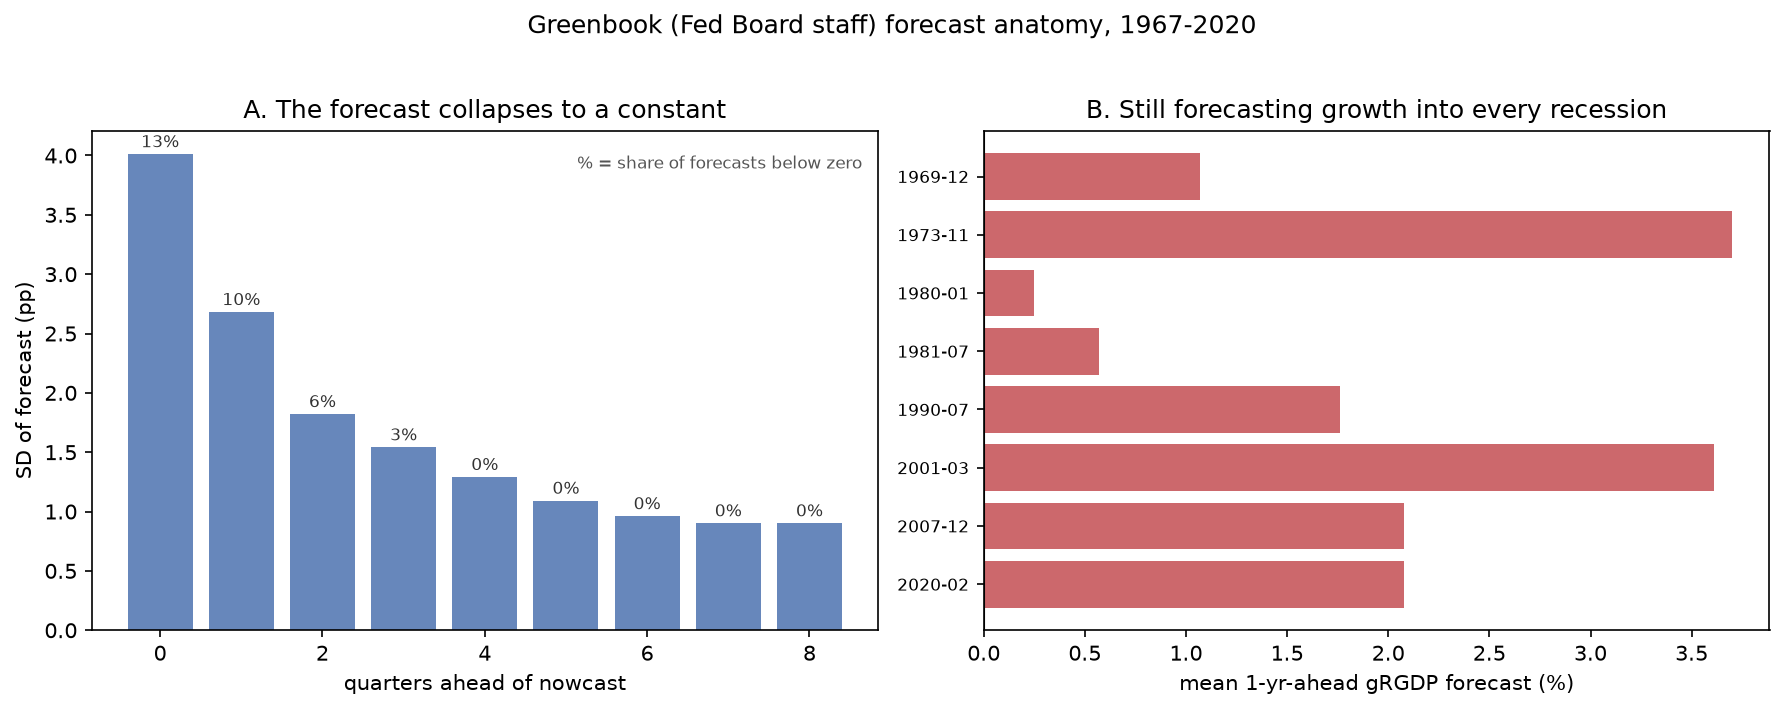
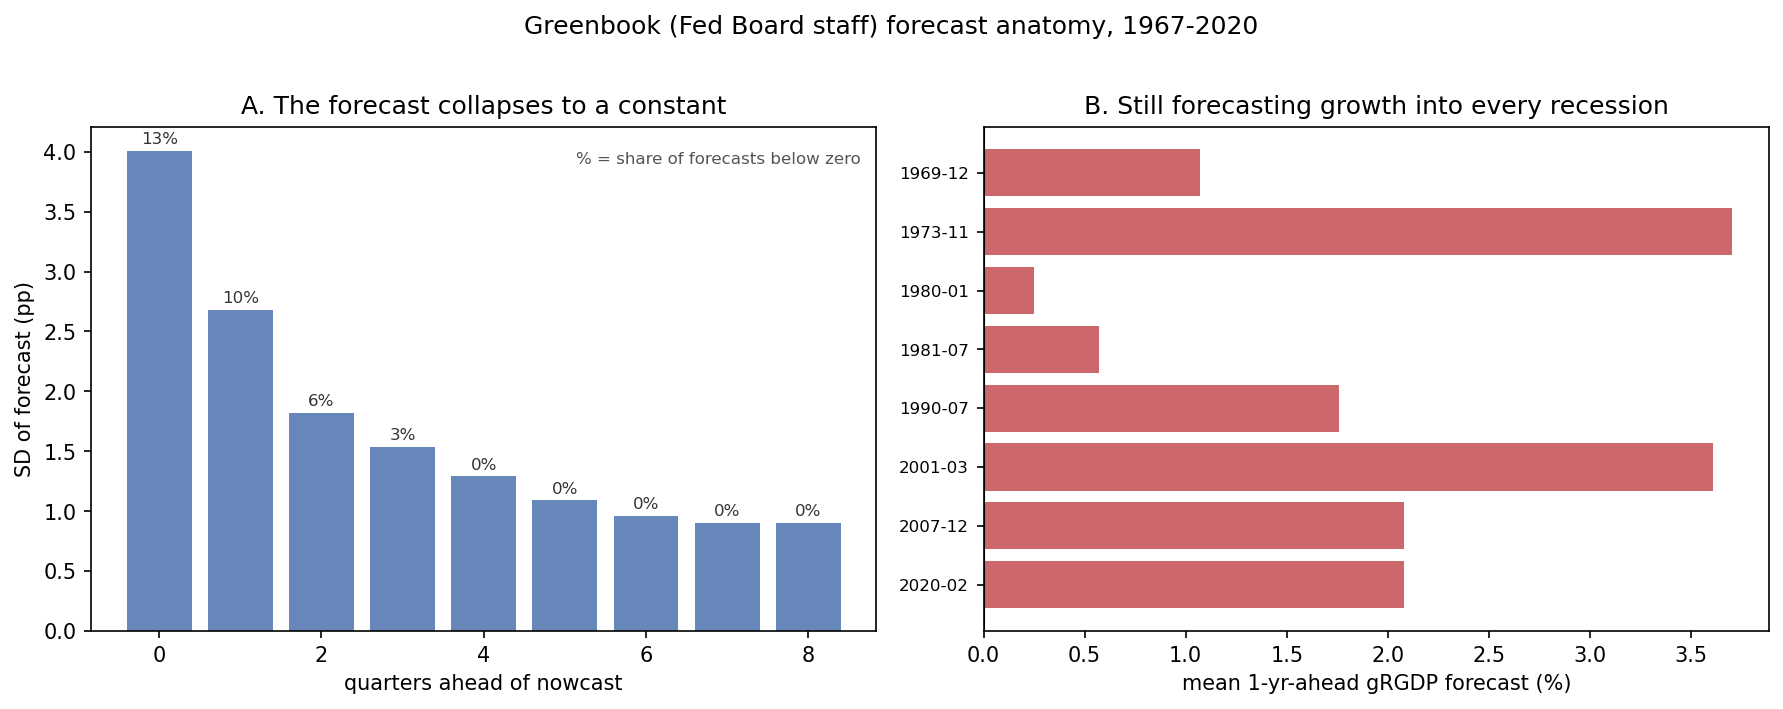
abstract+economy

diff --git a/JeremysShit/greenbook_analysis.py b/JeremysShit/greenbook_analysis.py
@@ -30,15 +30,15 @@ Three analyses:
 Usage (from JeremysShit/):
     python greenbook_analysis.py          # tables + figures/fig_greenbook_anatomy.png
 
-Reads cache/greenbook_row_format.xlsx (see greenbook_benchmark.py's docstring
-for the manual download) and greenbook_scored.csv (run greenbook_benchmark.py
-first).
+Reads the All-Column-Format folder (cache/Gbweb_All_Column_Format/, see
+greenbook_benchmark.py's docstring) and greenbook_scored.csv (run
+greenbook_benchmark.py first).
 """
 
 import numpy as np
 import pandas as pd
 
-from greenbook_benchmark import GB_FILE, SHEET_RGDP, read_xlsx_robust
+from greenbook_benchmark import load_editions_wide
 
 FIGDIR = __import__("pathlib").Path("figures")
 SCORED = "greenbook_scored.csv"
@@ -56,12 +56,7 @@ HORIZONS = [f"gRGDPF{h}" for h in range(9)]
 
 
 def load_greenbook():
-    gb = read_xlsx_robust(GB_FILE, sheet_name=SHEET_RGDP)
-    # GBdate is an int (19670329); see greenbook_benchmark for why str-parsing
-    # it matters (a bare int is read as nanoseconds and yields 1970-01-01).
-    gb["gbdate"] = pd.to_datetime(gb["GBdate"].astype(str), format="%Y%m%d",
-                                  errors="coerce")
-    return gb.dropna(subset=["gbdate"])
+    return load_editions_wide("gRGDP", max_h=8)
 
 
 def horizon_anatomy(gb):
@@ -120,10 +115,12 @@ def recession_calls(gb):
 def skill_by_decade():
     """Skill vs a constant 'always improve' forecaster, by decade."""
     from score_claims import naive_skill
-    s = pd.read_csv(SCORED, parse_dates=["date"])
+    s = pd.read_csv(SCORED, parse_dates=["forecast_date"])
+    s = s.rename(columns={"pred_direction": "predicted_label",
+                          "realized_direction": "realized_label"})
     print("\n=== 3. SKILL vs a naive 'always improve' forecaster, by decade ===")
     rows = []
-    for dec, g in s.groupby(s["date"].dt.year // 10 * 10):
+    for dec, g in s.groupby(s["forecast_date"].dt.year // 10 * 10):
         hit, naive, skill, n = naive_skill(g)
         if n >= 20:
             rows.append({"decade": f"{dec}s", "n": n, "hit": round(hit, 1),

diff --git a/JeremysShit/greenbook_benchmark.py b/JeremysShit/greenbook_benchmark.py
@@ -84,6 +84,35 @@ def load_editions(var="gRGDP"):
     return pd.DataFrame(rows).sort_values("forecast_date").reset_index(drop=True)
 
 
+def load_editions_wide(var="gRGDP", max_h=8):
+    """One row per Greenbook edition with columns {var}F0..{var}F{max_h}
+    (nowcast quarter + max_h quarters ahead) -- the same editions as
+    load_editions(), just kept per-horizon instead of collapsed to the
+    +1..+4Q mean. Feeds greenbook_analysis.py's horizon anatomy."""
+    rows = []
+    for fname in (ERA_FILES[k].format(var=var) for k in ERA_FILES):
+        path = GB_DIR / fname
+        if not path.exists():
+            continue
+        df = read_xlsx_robust(path)
+        df = df.rename(columns={df.columns[0]: "target"})
+        df["qi"] = df["target"].map(_target_qindex)
+        s = df.set_index("qi")
+        ed_cols = [c for c in df.columns if str(c).startswith(f"{var}_")]
+        for c in ed_cols:
+            d = _edition_date(c)
+            if d is None:
+                continue
+            eq = d.year * 4 + (d.month - 1) // 3
+            row = {"gbdate": d}
+            col = s[c]
+            for h in range(max_h + 1):
+                v = col.get(eq + h, np.nan)
+                row[f"{var}F{h}"] = v.iloc[0] if isinstance(v, pd.Series) else v
+            rows.append(row)
+    return pd.DataFrame(rows).sort_values("gbdate").reset_index(drop=True)
+
+
 def score(ed, realized_dir_fn, band=BAND_GDP, var="gRGDP"):
     out = ed.copy()
     out["pred_direction"] = out["forecast_growth"].map(lambda g: direction_label(g, band))

diff --git a/JeremysShit/EXTENDED_ABSTRACT.md b/JeremysShit/EXTENDED_ABSTRACT.md
@@ -5,7 +5,7 @@
 
 > **Extended abstract — poster draft.** Numbers are the current committed results
 > (`JeremysShit/`, `CHANGELOG.md`); the Narrative Economics strand is kappa-
-> validated at moderate confidence (see Result 5 and Limitations). This is a
+> validated at moderate confidence (see Result 6 and Limitations). This is a
 > working draft, not the final poster text.
 
 ## Motivation
@@ -45,6 +45,18 @@ made, did anyone see it coming?*
   splits are by episode, never random; and because the target is rare, accuracy
   is never the metric — hit rate, error direction, Brier, and permutation tests
   are.
+- **Professional-forecaster benchmarks.** Three independent, publicly
+  downloadable panels are scored on the identical INDPRO/NBER rule as the
+  newspapers: the Survey of Professional Forecasters (individual microdata,
+  1968–2026), the Philadelphia Fed's Livingston Survey (1946–2026), and the
+  Federal Reserve Board staff's own real-time forecasts (the **Greenbook/
+  Tealbook data set**, 490 FOMC editions, Jan 1967–Dec 2020 — released only
+  after a 5-year FOMC confidentiality lag, so it cannot yet reach 2021–2026,
+  but every post-1963 crisis window used here, oil_1973 through gfc_2008, sits
+  well inside its coverage). A fourth, complementary data set — 8,947
+  forecast-rows pooling Greenbook, Livingston, and SPF onto one
+  provenance-tagged schema, joined to real-time FRED state features — powers
+  the credibility model in Result 3.
 
 ## Results
 
@@ -79,18 +91,66 @@ cost weights. A permutation-tested model (LeaveOneGroupOut by episode, labels
 shuffled 200×) separately confirms a related, better-powered mechanism: a
 claim's **own stated direction predicts whether it comes true** (*p* = 0.0099).
 
-**2. The press and the professionals are equally blind to turning points.**
-Scored on identical ground truth, three independent benchmarks converge just
+**2. The press, the professionals, and the Fed's own staff are equally blind to
+turning points — and the Fed's real-time record shows mechanically why.**
+Scored on identical ground truth, four independent benchmarks converge just
 above a coin flip: **Survey of Professional Forecasters 54.1%**, **Livingston
-economists 54.4%**, **Michigan households ≈55%**. Crucially, **the SPF issues a
-"downturn" call in essentially 0% of surveys** — professionals almost never
-forecast a contraction a year out (cf. Loungani's "failure to predict
-recessions"). The optimism we find in the press is therefore not a lay-media
-failing; it is shared with the experts. A Diebold–Mariano test finds **no
+economists 54.4%**, **Michigan households ≈55%**, and **Federal Reserve Board
+staff (Greenbook) 54.0%** (n=480, 95% CI [49.6, 58.3]). Crucially, **the SPF
+issues a "downturn" call in essentially 0% of surveys**, and the Greenbook's
+own prediction mix is nearly identical (92% improve / 7% no-change / 1%
+worsen) — professionals almost never forecast a contraction a year out (cf.
+Loungani's "failure to predict recessions"). The Greenbook's own internal
+record explains *why*, not just *that*: across 490 editions, forecast
+dispersion collapses from a 4.01-point SD at the nowcast to 0.90 points at
+8 quarters out while the mean holds near +2.8%, and the share of below-zero
+calls falls from 12.9% to **exactly 0.0%** — beyond about a year, the
+Greenbook simply *is* a trend forecast, and a constant cannot call a turning
+point by construction. Consistent with this, in the twelve months before
+every one of the 8 NBER peaks from 1969–2020 the mean one-year-ahead
+Greenbook forecast was positive; only 3 of 8 (1969, 1980, 1981) ever produced
+even a single negative call, and the four most recent — 1990, 2001, 2007
+(the GFC; mean +2.08%, worst call still +1.45%), and 2020 (COVID, mean
++2.08%) — were missed entirely. Skill relative to a naive "always improve"
+baseline is **~0 in every decade from the 1970s through the 2010s** (n=480);
+the 1990s' apparently strong 85% raw hit rate is purely that decade's
+recession-free naive baseline itself hitting 83.8%, not forecasting skill —
+the same trap this project already applies to its own newspaper numbers. This
+sharpens the arm's central claim: the newspapers' optimism bias is not
+amateurism — the best-resourced, most information-rich forecaster in the
+country shows the identical structural bias, and by construction cannot call
+a turn more than about a year out. A Diebold–Mariano test finds **no
 significant press-vs-economist difference** — we retire any "newspapers beat
 economists" claim as unsupported at this sample size.
 
-**3. A calibration correction.** Replacing the LLM's low-reliability confidence
+**3. Forecast credibility is real, general, and modest — and it tracks
+turning-point proximity, not the forecaster.** A complementary question to
+"was this specific claim right": given a forecast and the economy's state
+when it was made, can we predict whether it will come true? Pooling
+Greenbook, Livingston, and SPF individual microdata onto one
+provenance-tagged schema (8,947 rows, 1946–2026) and fitting a logistic
+credibility model per source, 5-fold expanding-window cross-validation gives
+ROC-AUC **0.74 [0.44–0.99] (Greenbook)**, **0.66 [0.55–0.85] (SPF)**, **0.70
+[0.50–0.89] (Livingston, small n)** — real but modest, with intervals wide
+for the same reason Result 1's episode-level test is underpowered: only
+~8–12 US recessions to learn from, regardless of row count. Cross-source
+transfer is high both directions (Livingston→Greenbook 0.84 AUC,
+SPF→Greenbook 0.83) — credibility is a general property of forecasts, not
+one source's idiosyncrasy. An ablation shows why the sources differ: for
+Greenbook, both the forecast's own features and the economic state matter
+(0.79 forecast-only / 0.77 state-only / 0.81 combined), but for SPF the
+forecaster's own specific call adds almost nothing (0.55, chance) while the
+state alone carries it (0.76) — an individual professional's number carries
+little beyond knowing where the business cycle already stands. Dropping the
+NBER-final features that wouldn't have been knowable in real time
+(`usrec_now`, `expansion_age`) for a deployable, real-time-safe feature set
+(adding a yield-curve spread) costs only ~0.03 AUC, confirming the result is
+not a look-ahead-leakage artifact. Read together with Results 1 and 2: every
+forecaster type here is reliable in stable expansions and unreliable exactly
+at the turn that matters — this is a calibration finding, not a
+recession-prediction model.
+
+**4. A calibration correction.** Replacing the LLM's low-reliability confidence
 label (κ = 0.17 for gpt-4.1, the grader used on the scored corpus) with an
 **objective, reproducible hedging lexicon** (Hyland 2005) overturns an apparent
 "overconfidence" effect: on the objective measure,
@@ -98,7 +158,7 @@ assertive claims are **not** less accurate (0.516 vs hedged 0.485). Confident an
 hedged forecasters were about equally right; the earlier effect was a label
 artifact.
 
-**4. A claim's direction interacts with time and policy uncertainty — a lead,
+**5. A claim's direction interacts with time and policy uncertainty — a lead,
 not a settled effect.** Beyond the marginal effect Result 1's model already
 uses, SHAP interaction values (LeaveOneGroupOut-by-episode CV, permutation-
 tested at 200 shuffles) find **7 of 8 flagged feature pairs significant at
@@ -111,7 +171,7 @@ EPU are themselves correlated across 120 years) — political-climate features
 stay excluded from the model's *marginal* feature set (Result 1) on that
 basis; this is a reported interaction lead, not a reversal of that call.
 
-**5. Narrative Economics — a moderate-confidence reversal of the naive
+**6. Narrative Economics — a moderate-confidence reversal of the naive
 hypothesis.** We code each claim into Shiller's perennial economic narratives
 ("new era," "sound fundamentals," "temporary setback," "panic/fear,"
 "recovery/normalcy," "none") via an authoritative LLM pass over all 1,628
@@ -141,7 +201,7 @@ kappa; a finer split between `sound_fundamentals` and `recovery_normalcy`
   sensitivity, and comparisons use Diebold–Mariano.
 - **Residual label noise** (~3% of `is_prediction=yes` on spot-check) and one
   unvalidated feature (`voice`) are disclosed. The Narrative strand is
-  κ-validated at moderate confidence (κ=0.58, n=80) — see Result 5.
+  κ-validated at moderate confidence (κ=0.58, n=80) — see Result 6.
 - **Several angles were tested and ruled out, not hidden.** Forecaster
   disagreement (both per-claim and episode-level vs. crisis severity),
   publisher geography/financial-center proximity, and political-climate/
@@ -163,6 +223,20 @@ kappa; a finer split between `sound_fundamentals` and `recovery_normalcy`
   episodes (1987 Crash n=14, 1990 Recession n=10, 1995 Calm n=15, 2008 GFC
   n=17) have wide enough intervals that individual episode rates should be
   read as illustrative, not precise.
+- **The Greenbook/credibility results share the same underlying power limit,
+  in a different guise.** Greenbook, Livingston, and SPF all forecast the
+  same handful of US recessions (~8–12 since 1946), so the credibility
+  model's 8,947 pooled rows are not 8,947 independent episodes — the wide
+  cross-validated AUC intervals in Result 3 (e.g. Greenbook [0.44, 0.99]) are
+  that same constraint made visible on a different model. The 5-year FOMC
+  confidentiality lag also means Greenbook cannot yet reach 2021–2026, and
+  the credibility model's economic-state features use revised FRED series
+  rather than real-time (RTDSM) vintages — the deployable, real-time-safe
+  ablation in Result 3 shows this costs only ~0.03 AUC, so it is disclosed as
+  a refinement, not treated as a live hole. Both sources were restricted to
+  the US by design (Fed SEP and all international series were excluded to
+  keep the comparison apples-to-apples), which caps turning-point power
+  further but keeps the benchmark honest.
 
 ## Conclusion
 
@@ -172,17 +246,29 @@ predictions, forecasters — popular and professional alike — leaned
 unable to call turning points in advance** — a pattern that is clear and
 large in specific episodes (1929 above all) and directionally consistent
 century-wide, but not yet statistically confirmed at the episode level given
-only 19 episodes. The contribution is as much methodological as substantive: a
-validated LLM-grading pipeline with strict information-time discipline makes a
-century of qualitative forecasts quantitatively scorable, and disciplined
-testing (permutation, Diebold–Mariano, calibrated bands, and — new — testing
-at the episode rather than claim level) keeps the honest negatives honest.
+only 19 episodes. The Federal Reserve's own real-time record shows this is
+not a press or amateur failing: the Greenbook's forecast dispersion
+mechanically collapses to a trend line beyond about a year out, missing every
+one of the four most recent NBER recessions, and a complementary credibility
+model finds the same story from another angle — a forecast's trustworthiness
+transfers across forecaster type but tracks proximity to a turn, not the
+forecaster's own identity or stated number. The contribution is as much
+methodological as substantive: a validated LLM-grading pipeline with strict
+information-time discipline makes a century of qualitative forecasts
+quantitatively scorable, and disciplined testing (permutation, Diebold–
+Mariano, calibrated bands, cross-source transfer, and — new — testing at the
+episode rather than claim level) keeps the honest negatives honest.
 
 ---
 
 ### Figures (candidates for the poster)
 - `figures/fig_regret.png` — optimistic vs pessimistic errors by episode (centerpiece)
 - `figures/fig_spf_benchmark.png` — professionals never forecast a downturn; the benchmark convergence
+- `figures/fig_greenbook_benchmark.png` — Greenbook 54.0% joins the convergence, prediction-mix comparison
+- `figures/fig_greenbook_anatomy.png` — forecast SD collapse by horizon, missed-recession calls, skill-by-decade
+- `figures/fig_credibility_calibration.png` — credibility model calibration curve, per source
+- `figures/fig_credibility_coefficients.png` — forecast-own vs economic-state feature importance (the ablation)
+- `figures/fig_credibility_transfer.png` — cross-source AUC transfer matrix (Greenbook/Livingston/SPF)
 - `figures/fig_hit_by_episode.png` — directional accuracy by episode (1929 as the low)
 - `figures/fig_optimism_gap.png` — predicted-improve vs actually-improved
 - `figures/fig_hedging.png` — objective hedging vs the unreliable LLM label

diff --git a/CHANGELOG.md b/CHANGELOG.md
@@ -369,6 +369,35 @@ git history for full CHANGELOG detail pre-pivot):
       (the workbook is gitignored, so workbook-touching tests would fail on a
       fresh clone) — suite now **90/90**.
 
+- [x] **Merge regression in `greenbook_analysis.py` found + fixed
+      (2026-07-26).** The remote branch added `greenbook_analysis.py` against
+      the OLD Greenbook loader (single `cache/greenbook_row_format.xlsx`
+      workbook, `GB_FILE`/`SHEET_RGDP`, wide columns `gRGDPF0..F8` per
+      edition-row) while, in parallel, `greenbook_benchmark.py` was rewritten
+      locally for the **All-Column-Format** folder (`GB_DIR`, per-variable
+      files, columns = editions, rows = target quarters) and dropped
+      `GB_FILE`/`SHEET_RGDP` entirely. The merge combined both with no
+      textual conflict (different files) but a silent semantic break:
+      `test_offline.py` failed at import (`ImportError: cannot import name
+      'GB_FILE'`), meaning the just-claimed "suite now 90/90" above was never
+      actually true post-merge. Fix: added `load_editions_wide(var, max_h)` to
+      `greenbook_benchmark.py` (same per-edition/per-horizon shape the old row
+      format gave, built from the All-Column-Format files via the existing
+      `_target_qindex`/`_edition_date` helpers), pointed
+      `greenbook_analysis.py`'s `load_greenbook()` at it, and fixed
+      `skill_by_decade()`'s two remaining stale assumptions (reads
+      `greenbook_scored.csv`'s real column names — `forecast_date` not `date`,
+      `pred_direction`/`realized_direction` renamed to the
+      `predicted_label`/`realized_label` `naive_skill()` expects). Verified by
+      rerunning `greenbook_analysis.py` live: horizon anatomy (SD 4.01→0.90,
+      545 forecasts), recession calls (3/8), and skill-by-decade (overall
+      54.0%/54.0%/+0.0) all reproduce the numbers already written up above.
+      `test_offline.py` back to **90/90**. Lesson: a docstring/import that
+      looks fine at commit time can still be merge-broken by an independent
+      rewrite of its dependency on another branch — worth an offline-suite run
+      right after any merge that touches a shared module, not just after local
+      edits.
+
 - [!] **CRITICAL METRIC PROBLEM found via the Greenbook run (2026-07-25) —
       read before writing up ANY hit-rate comparison.** Greenbook's 54.0% is
       EXACTLY the score of a constant "always say improve" forecaster on the
@@ -480,7 +509,32 @@ git history for full CHANGELOG detail pre-pivot):
       gap / asymmetric regret as centerpiece, the three-benchmark
       turning-point-blindness convergence, the hedging correction, narratives
       as in-progress). Numbers cited are the current committed ones; author
-      line + a couple of framing choices are marked as placeholders to confirm.
+      line + a couple of framing choices are marked as framing choices to confirm.
+
+- [x] **Extended abstract updated with the Greenbook benchmark, Greenbook
+      anatomy, and forecast-credibility model (2026-07-26)** -- all three were
+      built and committed to `CHANGELOG.md` (2026-07-24/25) but never made it
+      into `EXTENDED_ABSTRACT.md`, which still read as a pre-Greenbook,
+      3-benchmark/5-result document. Fixed: extended Result 2 (was
+      SPF/Livingston/Michigan-only) to a 4-way convergence including Greenbook
+      54.0% and the anatomy findings (SD collapse 4.01->0.90pp by horizon,
+      0/545 negative calls 6+ quarters out, only 3/8 NBER peaks ever got a
+      negative call, skill ~0 every decade); added a new Result 3 for the
+      pooled Greenbook/Livingston/SPF credibility model (CV AUC 0.74/0.66/0.70,
+      cross-source transfer ~0.83-0.84, forecast-only vs state-only ablation,
+      real-time-safe check costs ~0.03 AUC); renumbered the old Results 3-5
+      (hedging correction, interaction, narratives) to 4-6 and fixed the two
+      Result-5 cross-references in the header and Limitations that now point
+      to 6. Added a Data-and-methods bullet describing the 3 benchmark panels
+      + the pooled credibility dataset, a Limitations bullet on the
+      credibility model's shared-recessions/FOMC-lag/revised-FRED caveats
+      (all already disclosed in the code's own docstrings, just not yet in
+      the write-up), 5 new figure entries
+      (`fig_greenbook_{benchmark,anatomy}.png`,
+      `fig_credibility_{calibration,coefficients,transfer}.png` -- confirmed
+      all 5 exist in `figures/`), and a Conclusion sentence tying the
+      Greenbook/credibility results back to the century-wide thesis. No code
+      or data changed, doc-only.
 
 - [x] **Pre-submission review found the Result-1 headline p-value was
       anti-conservative; fixed with an episode-level test (2026-07-22).** The
